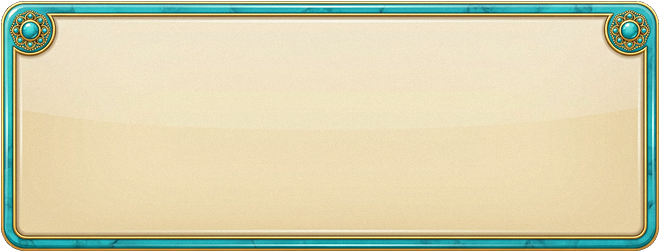
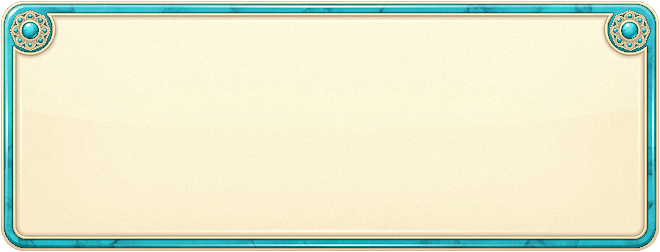
feat(ui): ivory cards, a ground for the tool glyphs, depth under every fruit
- the painted cards are graded from parchment to the palette's ivory, and their
  turquoise frames keep their colour.
- each tool gets an ivory disc inside its orb: five dark glyphs on a turquoise
  sphere were five smudges.
- a soft pool of shadow sits under every piece, and the play button is turquoise
  so the primary action is not one more gold plate.

diff --git a/godot-port/tools/import_plate_art.py b/godot-port/tools/import_plate_art.py
@@ -249,6 +249,28 @@ def build_rail() -> Image.Image:
     return shell.filter(ImageFilter.UnsharpMask(radius=1.4, percent=45, threshold=2))
 
 
+def build_piece_shadow(size: int = 128) -> Image.Image:
+    """The soft pool of shadow a fruit sits in, so the board has depth and not twelve flat stickers."""
+    picture = Image.new("RGBA", (size, size), (0, 0, 0, 0))
+    painter = ImageDraw.Draw(picture)
+    painter.ellipse((size * 0.16, size * 0.30, size * 0.84, size * 0.86), fill=(6, 48, 96, 120))
+    picture = picture.filter(ImageFilter.GaussianBlur(size * 0.055))
+    return picture
+
+
+def build_booster_disc(size: int = 128) -> Image.Image:
+    """The ivory disc the tool's glyph sits on, inside the turquoise orb.
+
+    The tools' own pictures are dark line art: on a turquoise sphere they read as smudges at 26 dp. A
+    light disc under each gives the glyph a ground, which is what makes five tools recognisable at a
+    glance rather than five dark marks.
+    """
+    disc = _plate((size, size), size // 2, [(0.0, IVORY_BRIGHT), (0.62, IVORY),
+                                            (1.0, _mix(IVORY, IVORY_SHADE, 0.55))])
+    disc = _rim(disc, size // 2, _mix(GOLD_LIGHT, IVORY, 0.55), width=2, inset=2)
+    return disc
+
+
 def build_round_plate(name: str, size: int) -> Image.Image:
     """The two round plates: the tool button and the cell frame, both drawn and both real circles."""
     if name == "orb":
@@ -321,10 +343,19 @@ def _nine_slice(cut: Image.Image, size: tuple, margins: tuple) -> Image.Image:
 def build_card(source_name: str, size: tuple) -> Image.Image:
     cut = _field_keyed(_load(source_name))
     plate = _nine_slice(cut, size, CARD_MARGINS[source_name])
-    # The frame is painted cream; keep its alpha, grade only the colour, or the keyed field would be
-    # multiplied back into a black card.
+    # The painted card is parchment, and parchment is brown: the palette replaced brown with warm
+    # ivory everywhere else, so the texture is kept and the colour is graded into the same ivory the
+    # rest of the plates use. The alpha is left alone — the keyed field must stay keyed.
     pixels = np.asarray(plate).astype(np.float32)
-    pixels[..., :3] = pixels[..., :3] * np.array([0.97, 0.96, 0.93], dtype=np.float32)
+    rgb = pixels[..., :3]
+    luminance = rgb.mean(axis=2, keepdims=True) / 255.0
+    ivory = np.array(IVORY, dtype=np.float32)[None, None, :] / 255.0
+    graded_rgb = np.clip(ivory * (0.70 + 0.38 * luminance) * 255.0, 0, 255)
+    # The frame is turquoise and the field is parchment, and only the field may be graded: a pixel with
+    # more blue than red is part of the frame and keeps its colour.
+    frame = (rgb[..., 2] > rgb[..., 0] + 12)[..., None]
+    pixels[..., :3] = np.where(frame, rgb, rgb * 0.30 + graded_rgb * 0.70)
+    plate = Image.fromarray(np.clip(pixels, 0, 255).astype(np.uint8), "RGBA")
     card = Image.fromarray(np.clip(pixels, 0, 255).astype(np.uint8), "RGBA")
     card = card.filter(ImageFilter.UnsharpMask(radius=1.4, percent=45, threshold=2))
     graded = np.asarray(card).astype(np.float32)
@@ -334,6 +365,8 @@ def build_card(source_name: str, size: tuple) -> Image.Image:
 
 def main() -> None:
     plates = [("ui_board_tray.png", build_tray()),
+              ("ui_booster_disc.png", build_booster_disc()),
+              ("ui_piece_shadow.png", build_piece_shadow()),
               ("ui_rail.png", build_rail()),
               ("ui_orb.png", build_round_plate("orb", ORB_SIZE)),
               ("ui_tile_frame.png", build_round_plate("tile", TILE_SIZE))]
